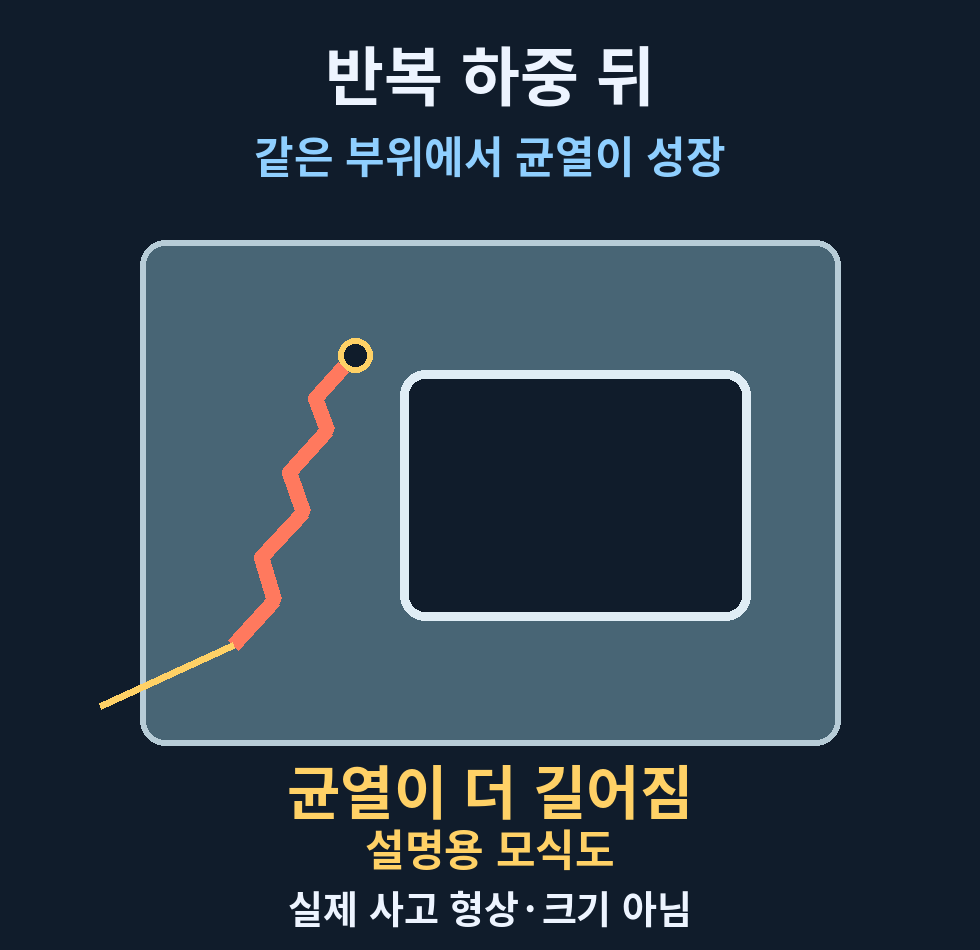
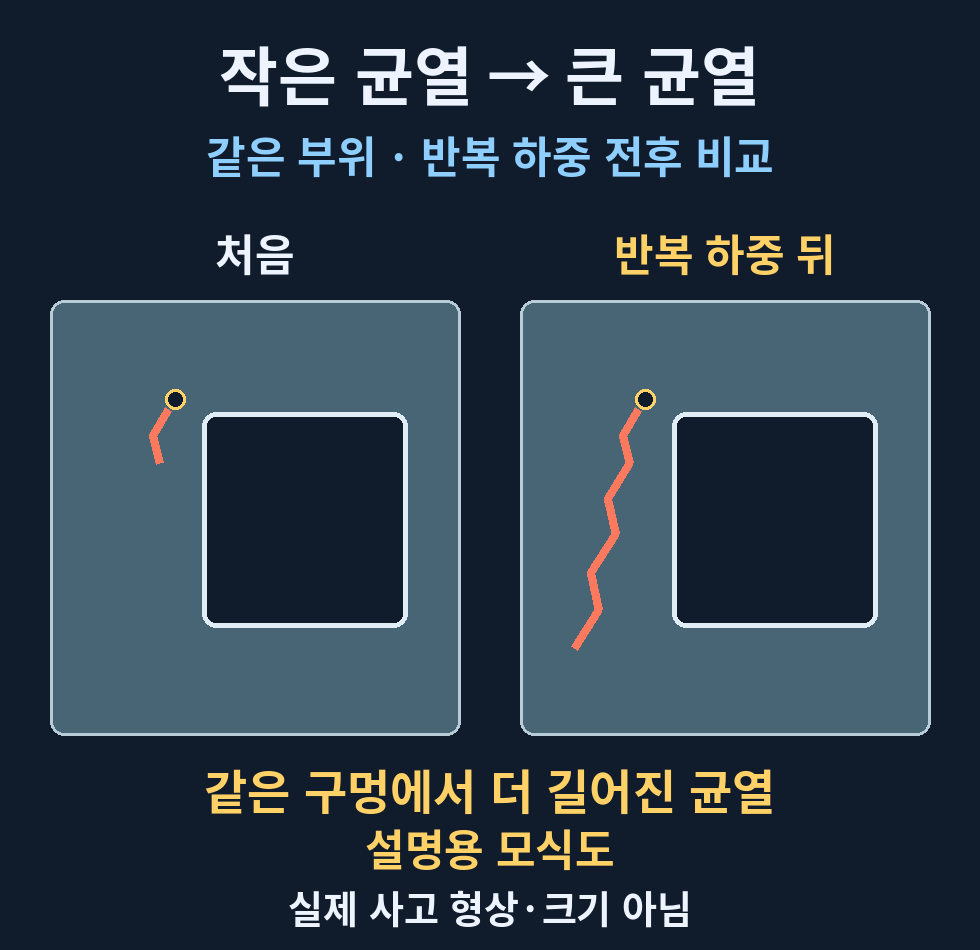
Separate crack growth into a simultaneous before and after comparison

diff --git a/tools/build_comet_fatigue_cards.py b/tools/build_comet_fatigue_cards.py
@@ -64,11 +64,13 @@ def build(root):
     text(d,490,788,"같은 부위에 반복 하중",52,GOLD)
     footer(d);im.save(root/"crack-small.png")
 
-    im,d=base("반복 하중 뒤", "같은 부위에서 균열이 성장")
-    specimen(d,1)
-    # Visible old/new extent, with a leader only to the crack tip.
-    d.line((233,645,100,706),fill=GOLD,width=7)
-    text(d,490,788,"균열이 더 길어짐",58,GOLD)
+    im,d=base("작은 균열 → 큰 균열", "같은 부위 · 반복 하중 전후 비교")
+    for box,stage,label,x in [
+        ((50,300,460,735),0,"처음",255),
+        ((520,300,930,735),1,"반복 하중 뒤",725)]:
+        specimen(d,stage,box)
+        text(d,x,252,label,43,GOLD if stage else WHITE)
+    text(d,490,788,"같은 구멍에서 더 길어진 균열",47,GOLD)
     footer(d);im.save(root/"crack-grown.png")
 
     im,d=base("핵심은 금속 피로", "같은 부위의 변화 · 설명용 모식도")

diff --git a/docs/comet-visible-fatigue-revision.md b/docs/comet-visible-fatigue-revision.md
@@ -7,3 +7,5 @@ Four cards use a fixed generic opening/hole specimen, a visibly longer crack und
 This is original explanatory artwork, not a physical simulation or an exact reconstruction of G-ALYP. The G-ALYP finding and G-ALYU test evidence remain distinct. No external media or paid execution is introduced.
 
 The automatic campaign remains at iteration 183 with all failures and its last verified candidate retained. This separately assisted source-material revision does not reset its strategy budgets, relabel rejected attempts, promote a candidate or grant upload/human approval.
+
+The first assisted render failed the unchanged visual-activity gate (6.0 seconds static). Its complete output is retained separately. The growth card is corrected to a simultaneous short/long crack comparison, rather than repeating a single-panel composition. No QA threshold was changed.
